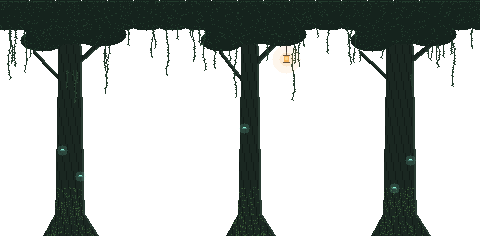
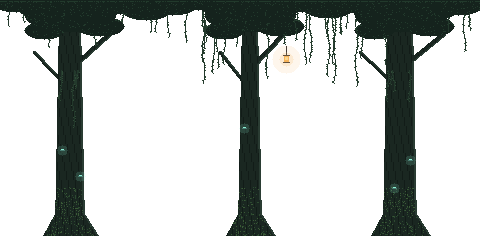
Add street props, lamp light, moonbeams and falling leaves

diff --git a/src/world/Background.js b/src/world/Background.js
@@ -6,21 +6,33 @@ import { GAME_WIDTH, GAME_HEIGHT, WORLD_WIDTH, GROUND_Y } from '../config.js';
 //   0   = glued to the screen (never moves, like the sky)
 //   0.5 = moves at half the camera's speed (far away)
 //   1   = moves with the world (normal objects, the ground)
+//   1.2 = moves FASTER than the world (closer to you than the street)
 //
 // The layer images come from `npm run art` (tools/art/background.js).
 // They repeat side to side, so a TileSprite can stretch them across the street.
 
 // The background images, back to front.
 export const BACKGROUND_LAYERS = [
-  { key: 'bg-castle', factor: 0.15, bottom: GROUND_Y - 18 },
+  { key: 'bg-castle', factor: 0.12, bottom: GROUND_Y - 18 },
+  { key: 'bg-forest-far', factor: 0.25, bottom: GROUND_Y - 10 },
   { key: 'bg-forest', factor: 0.4, bottom: GROUND_Y - 4 },
-  { key: 'bg-bushes', factor: 0.7, bottom: GROUND_Y + 2 },
+  { key: 'bg-grove', factor: 0.6, bottom: GROUND_Y + 2 },
+  { key: 'bg-bushes', factor: 0.75, bottom: GROUND_Y + 2 },
 ];
+
+// The ferns in front of the player.
+const FOREGROUND = { key: 'fg-ferns', factor: 1.25, depth: 850 };
 
 export function preloadBackground(scene) {
   scene.load.image('bg-sky', 'assets/bg-sky.png');
   scene.load.image('ground', 'assets/ground.png');
+  scene.load.image(FOREGROUND.key, `assets/${FOREGROUND.key}.png`);
   for (const layer of BACKGROUND_LAYERS) scene.load.image(layer.key, `assets/${layer.key}.png`);
+  // white shapes that get tinted: moonbeams, mist, leaves, twinkling stars
+  scene.load.image('fx-shaft', 'assets/fx-shaft.png');
+  scene.load.image('fx-mist', 'assets/fx-mist.png');
+  scene.load.image('fx-star', 'assets/fx-star.png');
+  scene.load.spritesheet('fx-leaf', 'assets/fx-leaf.png', { frameWidth: 4, frameHeight: 3 });
 }
 
 // A layer that moves at `factor` speed only needs to be this wide
@@ -29,21 +41,121 @@ function layerWidth(factor) {
   return GAME_WIDTH + (WORLD_WIDTH - GAME_WIDTH) * factor;
 }
 
-export function createBackground(scene) {
-  // 1. Sky: fixed to the screen.
-  scene.add.image(0, 0, 'bg-sky').setOrigin(0, 0).setScrollFactor(0);
+function addLayer(scene, key, factor, bottom) {
+  const height = scene.textures.get(key).getSourceImage().height;
+  return scene.add
+    .tileSprite(0, bottom - height, layerWidth(factor), height, key)
+    .setOrigin(0, 0)
+    .setScrollFactor(factor);
+}
 
-  // 2. Castle, forest and bushes, each repeating and scrolling at its own speed.
+export function createBackground(scene) {
+  // 1. Sky: fixed to the screen, with a few stars that twinkle.
+  scene.add.image(0, 0, 'bg-sky').setOrigin(0, 0).setScrollFactor(0);
+  createTwinkles(scene);
+
+  // 2. Castle, forests, big trees and bushes, each scrolling at its own speed.
+  //    Mist and moonbeams go in between, so they look far away.
   for (const layer of BACKGROUND_LAYERS) {
-    const height = scene.textures.get(layer.key).getSourceImage().height;
-    scene.add
-      .tileSprite(0, layer.bottom - height, layerWidth(layer.factor), height, layer.key)
-      .setOrigin(0, 0)
-      .setScrollFactor(layer.factor);
+    addLayer(scene, layer.key, layer.factor, layer.bottom);
+    if (layer.key === 'bg-forest') createMist(scene, 0.45, GROUND_Y - 40, 0.35);
+    if (layer.key === 'bg-grove') createMoonbeams(scene, layer.factor);
   }
+  createMist(scene, 0.8, GROUND_Y - 22, 0.22);
 
   // 3. Ground: grass + cobblestone path, scrolls with the world.
   scene.add.tileSprite(0, GROUND_Y, WORLD_WIDTH, GAME_HEIGHT - GROUND_Y, 'ground').setOrigin(0, 0);
+}
+
+// Ferns, grass and falling leaves IN FRONT of the player.
+// Call this after the player is added.
+export function createForeground(scene) {
+  addLayer(scene, FOREGROUND.key, FOREGROUND.factor, GAME_HEIGHT).setDepth(FOREGROUND.depth);
+  createLeaves(scene);
+}
+
+// Slanted beams of moonlight falling through the trees. They slowly
+// brighten and fade. ADD blending makes them lighten what's behind.
+function createMoonbeams(scene, factor) {
+  const width = layerWidth(factor);
+  for (let x = 60; x < width; x += Phaser.Math.Between(170, 300)) {
+    const beam = scene.add
+      .image(x, -10, 'fx-shaft')
+      .setOrigin(0.5, 0)
+      .setScrollFactor(factor)
+      .setTint(0xc8dce8)
+      .setAlpha(0.18)
+      .setScale(Phaser.Math.FloatBetween(0.8, 1.3), 1)
+      .setBlendMode(Phaser.BlendModes.ADD);
+    scene.tweens.add({
+      targets: beam,
+      alpha: 0.38,
+      duration: Phaser.Math.Between(3000, 6000),
+      delay: Phaser.Math.Between(0, 3000),
+      yoyo: true,
+      repeat: -1,
+      ease: 'Sine.easeInOut',
+    });
+  }
+}
+
+// A band of mist that drifts slowly sideways. It's one screen wide and
+// glued to the screen; we slide the picture inside it instead, which
+// costs much less than a street-wide image.
+function createMist(scene, factor, y, alpha) {
+  const mist = scene.add
+    .tileSprite(0, y, GAME_WIDTH, 28, 'fx-mist')
+    .setOrigin(0, 0)
+    .setScrollFactor(0)
+    .setTint(0xa8bcc0)
+    .setAlpha(alpha);
+  const drift = (time) => {
+    mist.tilePositionX = scene.cameras.main.scrollX * factor + time * 0.004;
+  };
+  scene.events.on('update', drift);
+  // Scenes are reused when you come back from a shop, so stop listening
+  // when this one closes (or the old mist would keep getting updated).
+  scene.events.once('shutdown', () => scene.events.off('update', drift));
+}
+
+// A handful of brighter stars that twinkle in and out.
+function createTwinkles(scene) {
+  for (let i = 0; i < 14; i++) {
+    const star = scene.add
+      .image(Phaser.Math.Between(4, GAME_WIDTH - 4), Phaser.Math.Between(4, 110), 'fx-star')
+      .setScrollFactor(0)
+      .setTint(Phaser.Utils.Array.GetRandom([0xffffff, 0xffe3a0, 0xc8dcff]))
+      .setAlpha(0);
+    scene.tweens.add({
+      targets: star,
+      alpha: Phaser.Math.FloatBetween(0.6, 1),
+      duration: Phaser.Math.Between(500, 1200),
+      delay: Phaser.Math.Between(0, 6000),
+      hold: Phaser.Math.Between(200, 1500),
+      yoyo: true,
+      repeat: -1,
+      repeatDelay: Phaser.Math.Between(2000, 7000),
+    });
+  }
+}
+
+// Leaves drifting down out of the trees, all along the street.
+function createLeaves(scene) {
+  scene.add
+    .particles(0, 0, 'fx-leaf', {
+      frame: [0, 1],
+      x: { min: 0, max: WORLD_WIDTH },
+      y: -6,
+      lifespan: 16000,
+      speedY: { min: 10, max: 20 },
+      speedX: { min: -14, max: -2 },
+      accelerationX: { min: -3, max: 3 },
+      tint: [0xa8623a, 0xb98a3e, 0x8f4f3f, 0x6f9a5c, 0xc99aa6],
+      alpha: { start: 0.9, end: 0.4 },
+      frequency: 90,
+      maxAliveParticles: 180,
+    })
+    .setDepth(FOREGROUND.depth - 1);
 }
 
 // Little glowing fireflies drifting around the street.

diff --git a/src/world/StreetProps.js b/src/world/StreetProps.js
@@ -1,0 +1,169 @@
+import Phaser from 'phaser';
+import { GROUND_Y } from '../config.js';
+
+// The little things that make the street feel lived-in: lamp posts,
+// stone lanterns, crates, benches... plus the light they give off and
+// paper lantern garlands strung between lamp posts.
+//
+// Art: tools/art/props.js (run `npm run art`). Each picture stands on the
+// grass by its bottom-middle, like the shops do.
+
+// Where everything goes, left to right. `x` = middle of the prop in world
+// pixels. `y` (optional) = where its bottom edge sits, if not on the grass.
+// `flip: true` mirrors it. Move things around freely!
+export const STREET_PROPS = [
+  // the start of the street
+  { key: 'prop-barrel', x: 40 },
+  { key: 'prop-puddle', x: 92, y: GROUND_Y + 19 },
+  { key: 'prop-signpost', x: 128 },
+  { key: 'prop-bench', x: 166 },
+  { key: 'prop-lamppost', x: 205 },
+  // Matcha Shop -> PJ's Store
+  { key: 'prop-crates', x: 412 },
+  { key: 'prop-lamppost', x: 465 },
+  { key: 'prop-lamppost', x: 655 },
+  { key: 'prop-stone-lantern', x: 696 },
+  { key: 'prop-barrel', x: 727, flip: true },
+  // PJ's Store -> Furniture
+  { key: 'prop-vending', x: 926 },
+  { key: 'prop-lamppost', x: 980 },
+  { key: 'prop-puddle', x: 1030, y: GROUND_Y + 21 },
+  { key: 'prop-lamppost', x: 1170 },
+  { key: 'prop-noticeboard', x: 1214 },
+  // Furniture -> Plant Shop
+  { key: 'prop-plants', x: 1466 },
+  { key: 'prop-lamppost', x: 1520 },
+  { key: 'prop-lamppost', x: 1690 },
+  { key: 'prop-bench', x: 1736, flip: true },
+  // Plant Shop -> Street Clothes
+  { key: 'prop-stone-lantern', x: 1962 },
+  { key: 'prop-lamppost', x: 2010 },
+  { key: 'prop-crates', x: 2062, flip: true },
+  { key: 'prop-lamppost', x: 2200 },
+  { key: 'prop-barrel', x: 2240 },
+  { key: 'prop-vending', x: 2292 },
+  // the end of the street
+  { key: 'prop-lamppost', x: 2512 },
+  { key: 'prop-signpost', x: 2560, flip: true },
+  { key: 'prop-puddle', x: 2598, y: GROUND_Y + 20 },
+  { key: 'prop-lamppost', x: 2630 },
+  { key: 'prop-plants', x: 2790 },
+  { key: 'prop-stone-lantern', x: 2844 },
+];
+
+// Paper lantern garlands: strung between the lamp posts at these x's.
+export const GARLANDS = [
+  [465, 655],
+  [980, 1170],
+  [1520, 1690],
+  [2010, 2200],
+  [2512, 2630],
+];
+
+// Where each prop gives off light, in pixels from its bottom-middle
+// (negative y = up). These match the drawings in tools/art/props.js.
+const LIGHTS = {
+  'prop-lamppost': [{ x: 0, y: -59, size: 1.4, pool: true }],
+  'prop-stone-lantern': [{ x: 0, y: -24, size: 0.8, pool: true }],
+  // core: false = no bright middle (the machine's window is already lit)
+  'prop-vending': [
+    { x: 0, y: -26, size: 0.9, color: 0x9fd6b8, core: false },
+    { x: 0, y: -40, size: 0.5, core: false },
+  ],
+};
+
+const WARM = 0xf5b35a; // lantern light (P.glowWarm in the art palette)
+const BRIGHT = 0xffe3a0; // the hot middle of a flame (P.glow)
+const LANTERN_COLORS = [0xe89aa0, 0xffe3a0, 0xb9a3d9, 0xf5b35a, 0x9fd6b8];
+
+export function preloadProps(scene) {
+  const keys = new Set(STREET_PROPS.map((p) => p.key));
+  for (const key of keys) scene.load.image(key, `assets/${key}.png`);
+  scene.load.image('fx-glow', 'assets/fx-glow.png');
+  scene.load.image('fx-paper-lantern', 'assets/fx-paper-lantern.png');
+}
+
+// A soft blob of light. ADD blending brightens whatever is behind it,
+// which is what makes it look like light instead of a yellow circle.
+export function addGlow(scene, x, y, size, color = WARM, alpha = 0.5) {
+  return scene.add
+    .image(x, y, 'fx-glow')
+    .setScale(size)
+    .setTint(color)
+    .setAlpha(alpha)
+    .setBlendMode(Phaser.BlendModes.ADD);
+}
+
+// Make a glow flicker gently, like a candle, each on its own rhythm.
+function flicker(scene, glow) {
+  const base = glow.alpha;
+  scene.tweens.add({
+    targets: glow,
+    alpha: base * Phaser.Math.FloatBetween(0.7, 0.85),
+    scale: glow.scale * 0.94,
+    duration: Phaser.Math.Between(180, 420),
+    delay: Phaser.Math.Between(0, 1500),
+    yoyo: true,
+    repeat: -1,
+    repeatDelay: Phaser.Math.Between(200, 2200),
+    ease: 'Sine.easeInOut',
+  });
+}
+
+// A string sagging between two points, with paper lanterns hanging off it.
+function addGarland(scene, x1, x2) {
+  const y = GROUND_Y - 46; // the lamp posts' crossbars
+  const left = x1 + 6;
+  const right = x2 - 6;
+  const sag = Math.min(18, (right - left) * 0.12);
+  // Height of the string at position t (0 = left end, 1 = right end).
+  const at = (t) => ({ x: left + (right - left) * t, y: y + sag * 4 * t * (1 - t) });
+
+  const g = scene.add.graphics();
+  g.fillStyle(0x5a4a40, 1); // twine
+  const steps = Math.ceil(right - left);
+  for (let i = 0; i <= steps; i++) {
+    const p = at(i / steps);
+    g.fillRect(Math.round(p.x), Math.round(p.y), 1, 1); // 1px dots = crisp pixel line
+  }
+
+  const count = Math.max(3, Math.floor((right - left) / 24));
+  for (let i = 1; i <= count; i++) {
+    const p = at(i / (count + 1));
+    const color = LANTERN_COLORS[(i + Math.floor(x1 / 10)) % LANTERN_COLORS.length];
+    const glow = addGlow(scene, Math.round(p.x), Math.round(p.y) + 5, 0.45, color, 0.55);
+    const lantern = scene.add.image(Math.round(p.x), Math.round(p.y), 'fx-paper-lantern').setOrigin(0.5, 0).setTint(color);
+    flicker(scene, glow);
+    // a little sway in the breeze
+    scene.tweens.add({
+      targets: lantern,
+      angle: { from: -6, to: 6 },
+      duration: Phaser.Math.Between(1400, 2000),
+      yoyo: true,
+      repeat: -1,
+      ease: 'Sine.easeInOut',
+      delay: i * 150,
+    });
+  }
+}
+
+// Call after createBackground and before the shops, so props stand
+// behind the shops' signs but in front of the trees.
+export function createProps(scene) {
+  for (const prop of STREET_PROPS) {
+    if (!scene.textures.exists(prop.key)) continue;
+    const img = scene.add.image(prop.x, prop.y ?? GROUND_Y + 1, prop.key).setOrigin(0.5, 1);
+    if (prop.flip) img.setFlipX(true);
+
+    for (const light of LIGHTS[prop.key] ?? []) {
+      const lx = prop.x + (prop.flip ? -light.x : light.x);
+      const ly = GROUND_Y + 1 + light.y;
+      // a pool of light on the ground beneath it
+      if (light.pool) addGlow(scene, lx, GROUND_Y + 8, 1, WARM, 0.3).setScale(light.size * 1.6, light.size * 0.3);
+      const outer = addGlow(scene, lx, ly, light.size, light.color ?? WARM, light.core === false ? 0.3 : 0.45);
+      if (light.core !== false) addGlow(scene, lx, ly, light.size * 0.35, BRIGHT, 0.55);
+      flicker(scene, outer);
+    }
+  }
+  for (const [x1, x2] of GARLANDS) addGarland(scene, x1, x2);
+}

diff --git a/src/scenes/StreetScene.js b/src/scenes/StreetScene.js
@@ -1,6 +1,7 @@
 import Phaser from 'phaser';
 import { GAME_HEIGHT, GROUND_Y, WORLD_WIDTH, SHOPS, DECOR, COLORS } from '../config.js';
-import { preloadBackground, createBackground, createFireflies } from '../world/Background.js';
+import { preloadBackground, createBackground, createForeground, createFireflies } from '../world/Background.js';
+import { preloadProps, createProps } from '../world/StreetProps.js';
 import { createStreet } from '../world/Street.js';
 import Player from '../objects/Player.js';
 import CoinHud from '../ui/CoinHud.js';
@@ -27,6 +28,7 @@ export default class StreetScene extends Phaser.Scene {
     }
     Player.preload(this);
     preloadBackground(this);
+    preloadProps(this);
     CoinHud.preload(this);
     CornerMenu.preload(this);
   }
@@ -35,9 +37,11 @@ export default class StreetScene extends Phaser.Scene {
   create(data) {
     // Draw order matters: things added later appear in front.
     createBackground(this);
+    createProps(this); // lamp posts, crates, benches... and their light
     this.shops = createStreet(this);
     this.player = new Player(this, data.x ?? 80);
     createFireflies(this);
+    createForeground(this); // ferns and falling leaves in front of you
     this.hud = new CoinHud(this); // added last so it's on top
     this.menu = new CornerMenu(this, {
       place: 'home',

diff --git a/tools/art/background.js b/tools/art/background.js
@@ -237,13 +237,13 @@ function grove() {
     }
     // canopy: overlapping leaf clumps along the top
     for (let x = -10; x < W + 10; x += 26) {
-      const y = 6 + ((x * 7) % 13);
-      c.ellipse(x + ox, y, 26, 16, leaf);
+      const y = ((x * 7) % 11) - 2;
+      c.ellipse(x + ox, y, 26, 12, leaf);
     }
     for (const [x] of trunks) {
-      c.ellipse(x + ox, 22, 50, 22, leaf);
-      c.ellipse(x + ox + 30, 34, 26, 12, leaf);
-      c.ellipse(x + ox - 28, 40, 22, 11, leaf);
+      c.ellipse(x + ox, 14, 46, 18, leaf);
+      c.ellipse(x + ox + 30, 26, 24, 10, leaf);
+      c.ellipse(x + ox - 26, 30, 20, 9, leaf);
     }
   });
 

diff --git a/tools/art/props.js b/tools/art/props.js
@@ -182,7 +182,7 @@ function bench() {
   return c;
 }
 
-// Wooden signpost with arrows pointing to the shops, and a hanging lantern.
+// Wooden signpost with arrows pointing to the shops.
 function signpost() {
   const W = 40;
   const H = 52;
